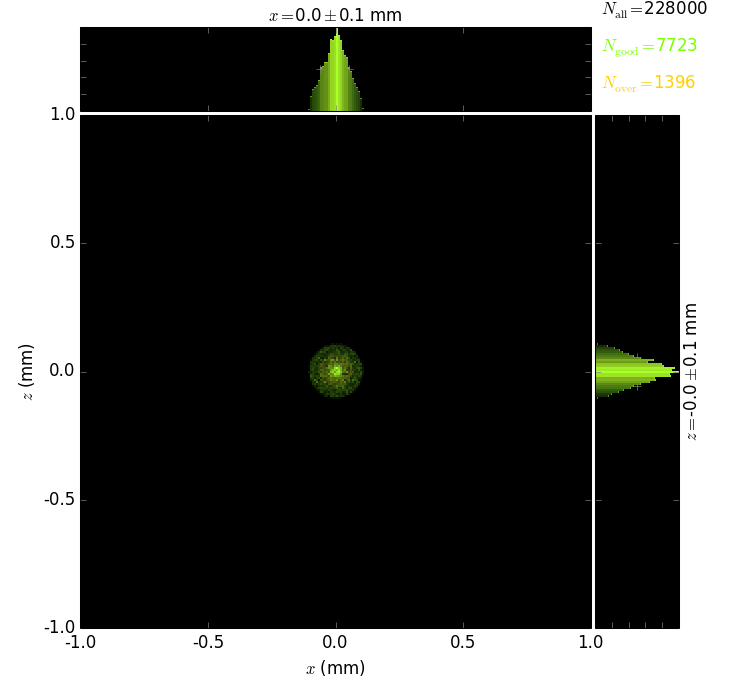
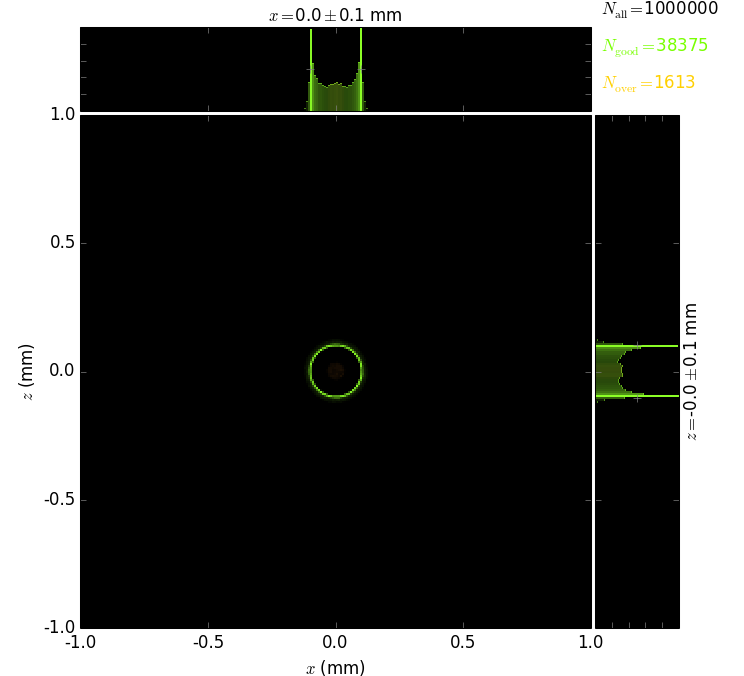
Connical, centered

diff --git a/StraightCapillary.py b/StraightCapillary.py
@@ -106,7 +106,7 @@ def build_beamline(nrays=1000):
     capillary = StraightCapillary(
         beamLine, 'StraightCapillary', [0,0,0], roll=roll,
         material=mGlass, limPhysY=[rSample*np.cos(alpha), f],
-        f=f, rSample=rSample, entranceAlpha=alpha, rIn=r0, rOut=r0)
+        f=f, rSample=rSample, entranceAlpha=alpha, rIn=r0, rOut=r0/2)
     beamLine.capillaries.append(capillary)         
     
     if beamLine.xzMax < capillary.b0:
